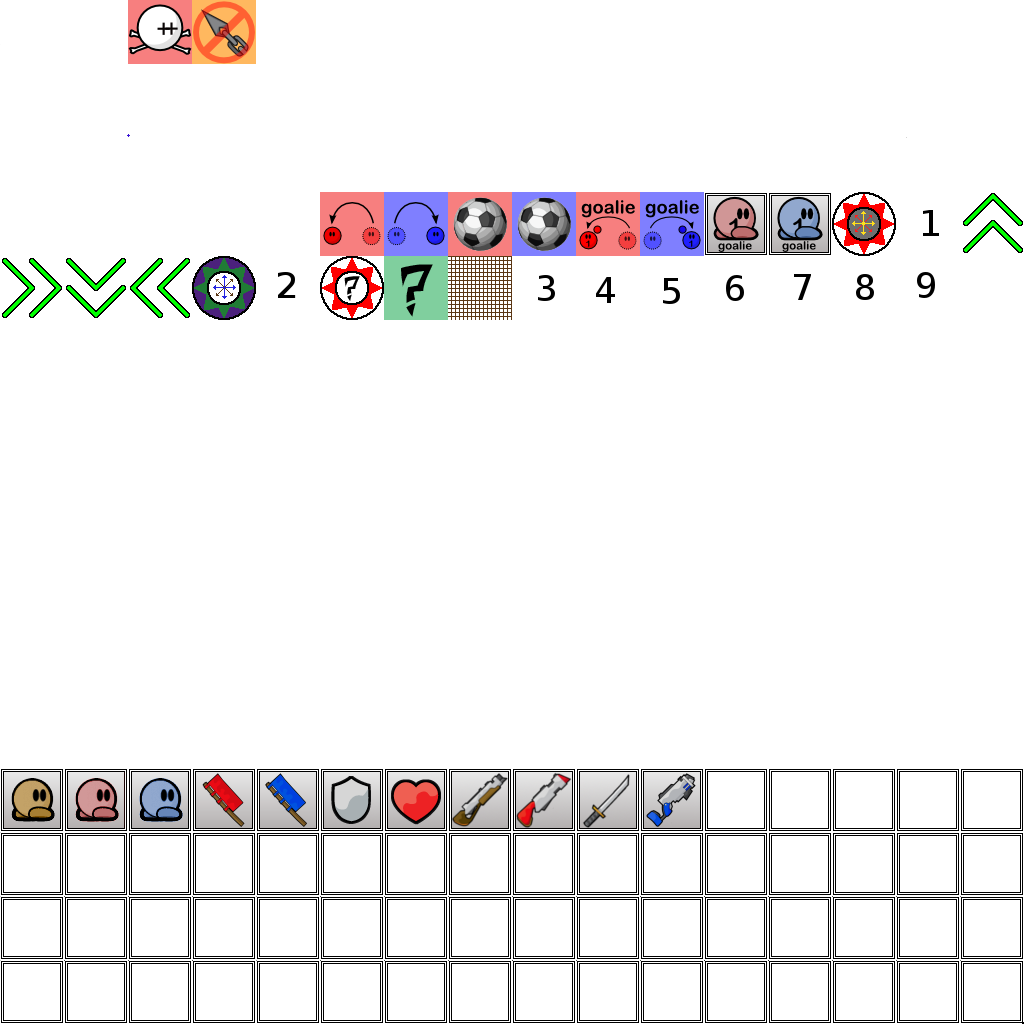
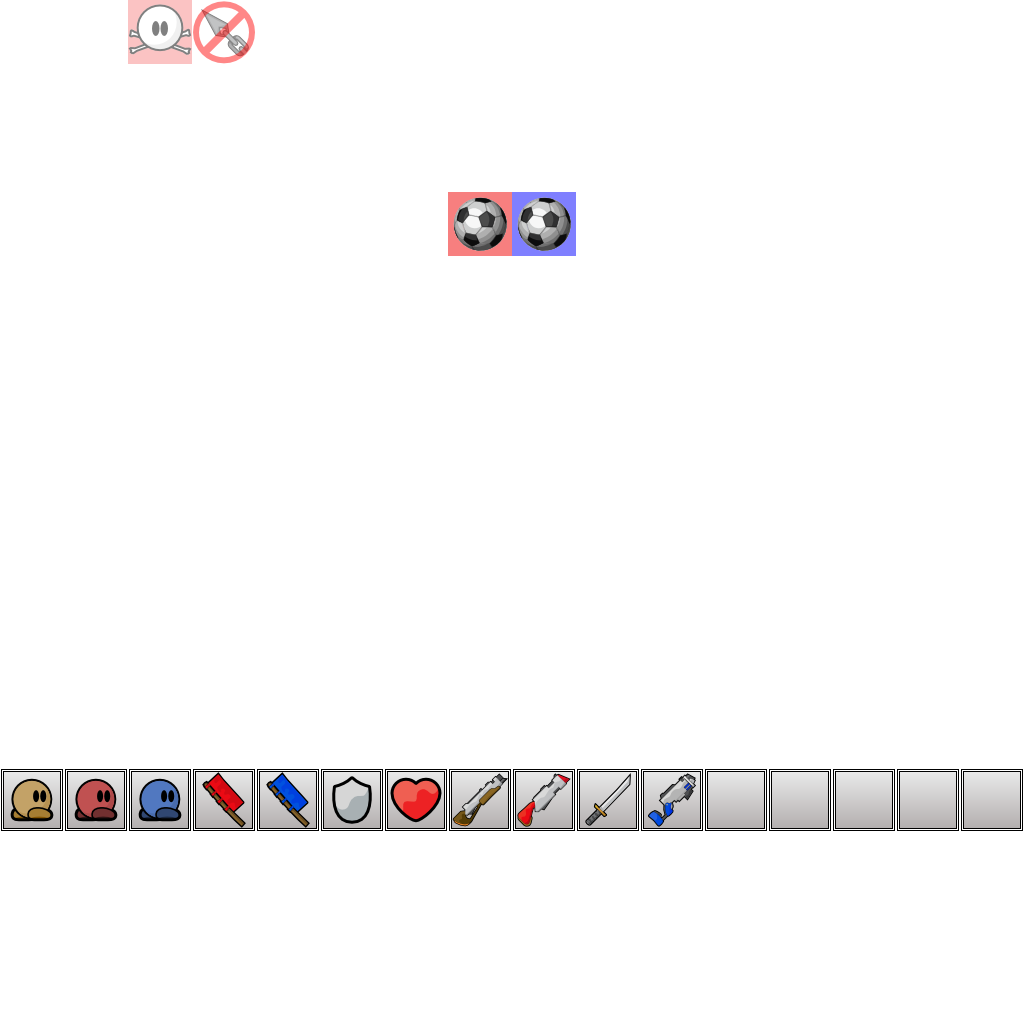
Trimmed, repositioned the entities on entities.png and cleanup a bit

diff --git a/src/game/server/entities/projectile.cpp b/src/game/server/entities/projectile.cpp
@@ -109,7 +109,7 @@ void CProjectile::Tick()
 			for(float i = Ct; i <= Nt; i += (Nt-Ct)/30.0f)
 			{
 				vec2 tmp_pos = GetPos(i);
-				if(GameServer()->Collision()->col_is_solid((int) tmp_pos.x, (int) tmp_pos.y))
+				if(GameServer()->Collision()->IsTileSolid((int) tmp_pos.x, (int) tmp_pos.y))
 				{
 					break;
 				}
@@ -124,7 +124,7 @@ void CProjectile::Tick()
 				for(float St = Ct; St > Ct-1.0f; St-=0.02f)
 				{
 					vec2 SearchPos = GetPos(St);
-					if(!GameServer()->Collision()->col_is_solid((int)SearchPos.x, (int)SearchPos.y))
+					if(!GameServer()->Collision()->IsTileSolid((int)SearchPos.x, (int)SearchPos.y))
 					{
 						FreeTime = St;
 						ColPos = GetPos(St+0.02f);
@@ -144,11 +144,11 @@ void CProjectile::Tick()
 			{
 				bool coll_x = false;
 				bool coll_y = false;
-				if(GameServer()->Collision()->col_is_solid((int)FreePos.x, (int)ColPos.y))
+				if(GameServer()->Collision()->IsTileSolid((int)FreePos.x, (int)ColPos.y))
 				{
 					coll_y = true;
 				}
-				if(GameServer()->Collision()->col_is_solid((int)ColPos.x, (int)FreePos.y))
+				if(GameServer()->Collision()->IsTileSolid((int)ColPos.x, (int)FreePos.y))
 				{
 					coll_x = true;
 				}
@@ -211,14 +211,14 @@ void CProjectile::Tick()
 				   m_LastOwner = m_Owner;
 				   TChar->HoldBallTick = Server()->Tick() + Server()->TickSpeed() * 3;
 			}
-			else if(GameServer()->Collision()->col_is_red((int)CurP.x,(int)CurP.y) && GameServer()->m_apPlayers[m_Owner]->GetTeam() != -1)// && m_Owner > -1)
+			else if(GameServer()->Collision()->IsRedGoal((int)CurP.x,(int)CurP.y) && GameServer()->m_apPlayers[m_Owner]->GetTeam() != -1)// && m_Owner > -1)
 			{
 				GameServer()->m_World.DestroyEntity(this);
 				GameServer()->CreateExplosion(CurP, m_Owner, m_Weapon, true);
 				GameServer()->m_pController->OnGoalRed(m_Owner);
 				//game.controller->on_player_goal(game.players[owner], 0);
 			}
-			else if(GameServer()->Collision()->col_is_blue((int)CurP.x,(int)CurP.y) && GameServer()->m_apPlayers[m_Owner]->GetTeam() != -1)// && m_Owner > -1)
+			else if(GameServer()->Collision()->IsBlueGoal((int)CurP.x,(int)CurP.y) && GameServer()->m_apPlayers[m_Owner]->GetTeam() != -1)// && m_Owner > -1)
 			{
 				GameServer()->m_World.DestroyEntity(this);
 				GameServer()->CreateExplosion(CurP, m_Owner, m_Weapon, true);
@@ -267,12 +267,12 @@ void CProjectile::Tick()
 
 				game.world.destroy_entity(this);
 			}
-			else if (col_is_red((int)curpos.x,(int)curpos.y) && owner > -1 && game.players[owner] && game.players[owner]->team != -1)
+			else if (IsRedGoal((int)curpos.x,(int)curpos.y) && owner > -1 && game.players[owner] && game.players[owner]->team != -1)
 			{
 				game.world.destroy_entity(this);
 				game.controller->on_player_goal(game.players[owner], 0);
 			}
-			else if (col_is_blue((int)curpos.x,(int)curpos.y) && owner > -1 && game.players[owner] && game.players[owner]->team != -1)
+			else if (IsBlueGoal((int)curpos.x,(int)curpos.y) && owner > -1 && game.players[owner] && game.players[owner]->team != -1)
 			{
 				game.world.destroy_entity(this);
 				game.controller->on_player_goal(game.players[owner], 1);

diff --git a/src/game/collision.cpp b/src/game/collision.cpp
@@ -45,18 +45,6 @@ void CCollision::Init(class CLayers *pLayers)
 		case TILE_NOHOOK:
 			m_pTiles[i].m_Index = COLFLAG_SOLID|COLFLAG_NOHOOK;
 			break;
-		case TILE_ROUNDCOUNTER:
-			m_pTiles[i].m_Index = COLFLAG_ROUNDCOUNTER;
-			break;
-		case TILE_CHECK1:
-			m_pTiles[i].m_Index = COLFLAG_CHECK1;
-			break;
-		case TILE_CHECK2:
-			m_pTiles[i].m_Index = COLFLAG_CHECK2;
-			break;
-		case TILE_CHECK3:
-			m_pTiles[i].m_Index = COLFLAG_CHECK3;
-			break;
 		case TILE_REDGOAL:
 			m_pTiles[i].m_Index = TILE_REDGOAL;
 			break;
@@ -80,64 +68,6 @@ int CCollision::GetTile(int x, int y)
 bool CCollision::IsTileSolid(int x, int y)
 {
 	return GetTile(x, y)&COLFLAG_SOLID;
-}
-
-int CCollision::col_is_red(int x, int y)
-{
-	int Nx = x/32;
-	int Ny = y/32;
-	if(y<0 || Nx < 0 || Nx >= m_Width || Ny >= m_Height)
-		return 0;
-	return (int)m_pTiles[Ny*m_Width+Nx].m_Index == TILE_REDGOAL;
-}
-int CCollision::col_is_blue(int x, int y)
-{
-	int Nx = x/32;
-	int Ny = y/32;
-	if(y<0 || Nx < 0 || Nx >= m_Width || Ny >= m_Height)
-		return 0;
-	return (int)m_pTiles[Ny*m_Width+Nx].m_Index == TILE_BLUEGOAL;
-}
-/*
-int CCollision::OnRoundCounter(int x, int y)
-{
-	int Nx = x/32;
-	int Ny = x/32;
-	if(y<0 || Nx < 0 || Nx >= m_Width || Ny >= m_Height)
-		return 0;
-	return (int)m_pTiles[Ny*m_Width+Nx].m_Index == COLFLAG_ROUNDCOUNTER;
-}
-
-int CCollision::OnCheckPoint1(int x, int y)
-{
-	int Nx = x/32;
-	int Ny = x/32;
-	if(y<0 || Nx < 0 || Nx >= m_Width || Ny >= m_Height)
-		return 0;
-	return (int)m_pTiles[Ny*m_Width+Nx].m_Index == COLFLAG_CHECK1;
-}
-
-int CCollision::OnCheckPoint2(int x, int y)
-{
-	int Nx = x/32;
-	int Ny = x/32;
-	if(y<0 || Nx < 0 || Nx >= m_Width || Ny >= m_Height)
-		return 0;
-	return (int)m_pTiles[Ny*m_Width+Nx].m_Index == COLFLAG_CHECK2;
-}
-
-int CCollision::OnCheckPoint3(int x, int y)
-{
-	int Nx = x/32;
-	int Ny = x/32;
-	if(y<0 || Nx < 0 || Nx >= m_Width || Ny >= m_Height)
-		return 0;
-	return (int)m_pTiles[Ny*m_Width+Nx].m_Index == COLFLAG_CHECK3;
-}*/
-
-int CCollision::col_is_solid(int x, int y)
-{
-	return GetTile(x,y)&COLFLAG_SOLID;
 }
 
 // TODO: rewrite this smarter!
@@ -277,4 +207,22 @@ void CCollision::MoveBox(vec2 *pInoutPos, vec2 *pInoutVel, vec2 Size, float Elas
 
 	*pInoutPos = Pos;
 	*pInoutVel = Vel;
+}
+
+int CCollision::IsRedGoal(int x, int y)
+{
+	int Nx = x/32;
+	int Ny = y/32;
+	if(y<0 || Nx < 0 || Nx >= m_Width || Ny >= m_Height)
+		return 0;
+	return (int)m_pTiles[Ny*m_Width+Nx].m_Index == TILE_REDGOAL;
+}
+
+int CCollision::IsBlueGoal(int x, int y)
+{
+	int Nx = x/32;
+	int Ny = y/32;
+	if(y<0 || Nx < 0 || Nx >= m_Width || Ny >= m_Height)
+		return 0;
+	return (int)m_pTiles[Ny*m_Width+Nx].m_Index == TILE_BLUEGOAL;
 }

diff --git a/src/game/collision.h b/src/game/collision.h
@@ -12,7 +12,7 @@ class CCollision
 	int m_Height;
 	class CLayers *m_pLayers;
 
-	bool IsTileSolid(int x, int y);
+	// bool IsTileSolid(int x, int y);
 	int GetTile(int x, int y);
 
 public:
@@ -21,10 +21,6 @@ public:
 		COLFLAG_SOLID=1,
 		COLFLAG_DEATH=2,
 		COLFLAG_NOHOOK=4,
-		COLFLAG_ROUNDCOUNTER=8,
-		COLFLAG_CHECK1=16,
-		COLFLAG_CHECK2=32,
-		COLFLAG_CHECK3=64,
 	};
 
 	CCollision();
@@ -43,10 +39,11 @@ public:
 	int OnCheckPoint1(int x, int y);
 	int OnCheckPoint2(int x, int y);
 	int OnCheckPoint3(int x, int y);
-	int col_is_red(int x, int y);
-	int col_is_blue(int x, int y);
-	
-	int col_is_solid(int x, int y);
+
+	// TeeFoot
+	bool IsTileSolid(int x, int y);
+	int IsRedGoal(int x, int y);
+	int IsBlueGoal(int x, int y);
 };
 
 #endif

diff --git a/src/game/mapitems.h b/src/game/mapitems.h
@@ -46,12 +46,8 @@ enum
 	TILE_SOLID,
 	TILE_DEATH,
 	TILE_NOHOOK,
-	TILE_REDGOAL=16,
-	TILE_BLUEGOAL=20,
-	TILE_ROUNDCOUNTER=24,
-	TILE_CHECK1=28,
-	TILE_CHECK2=40,
-	TILE_CHECK3=44,
+	TILE_REDGOAL=55,
+	TILE_BLUEGOAL,
 	
 	TILEFLAG_VFLIP=1,
 	TILEFLAG_HFLIP=2,
